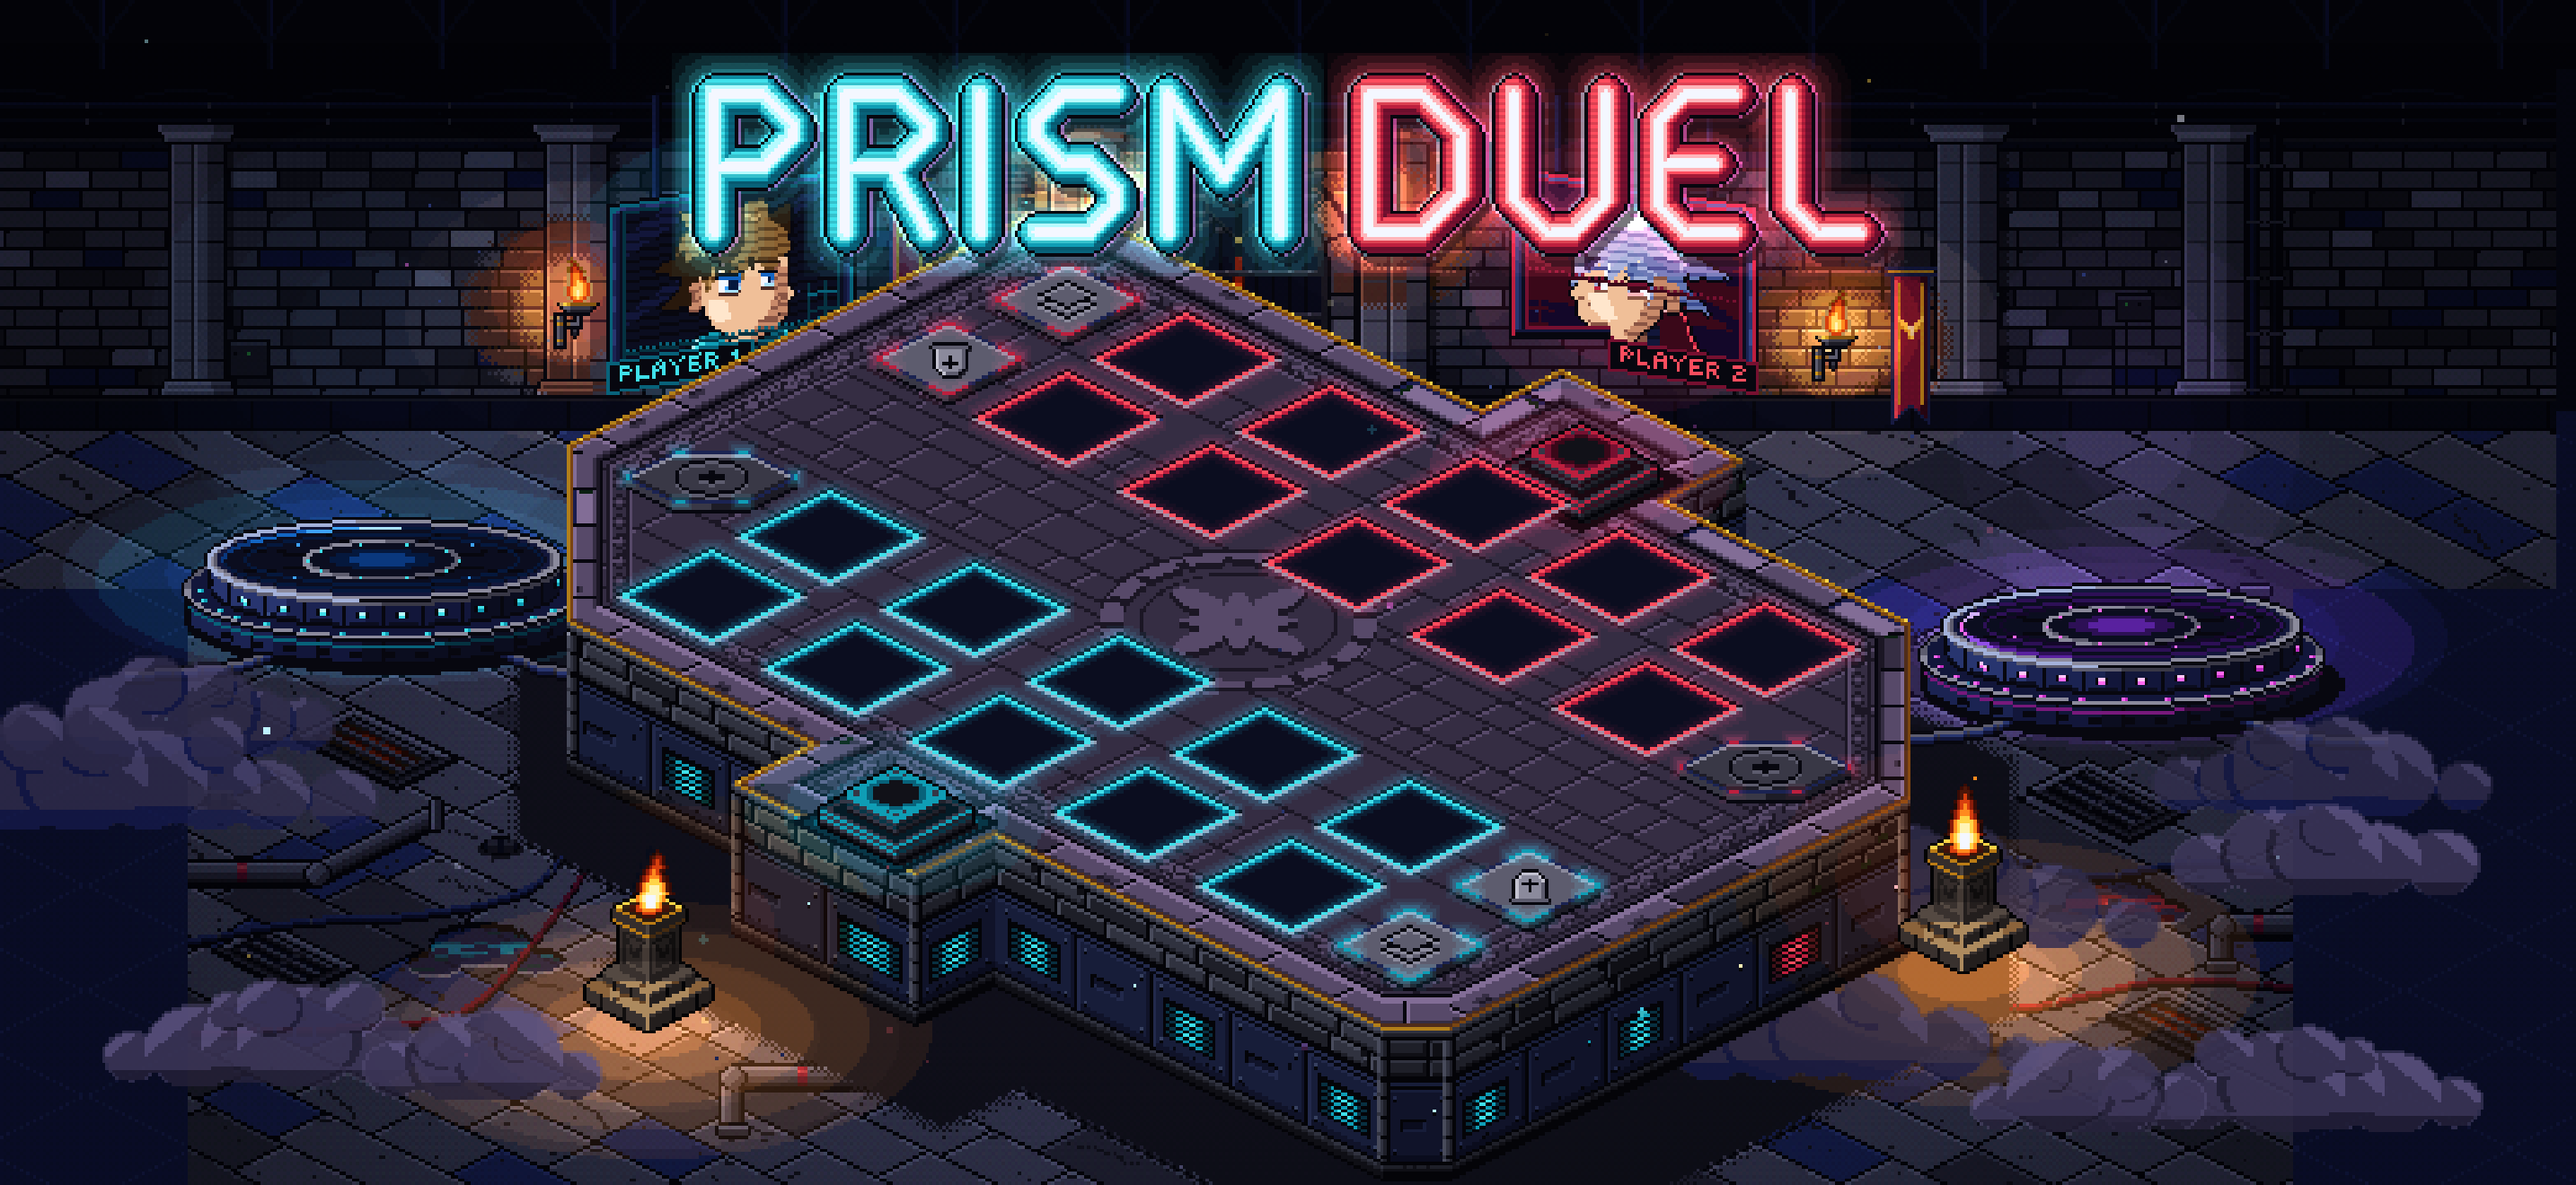
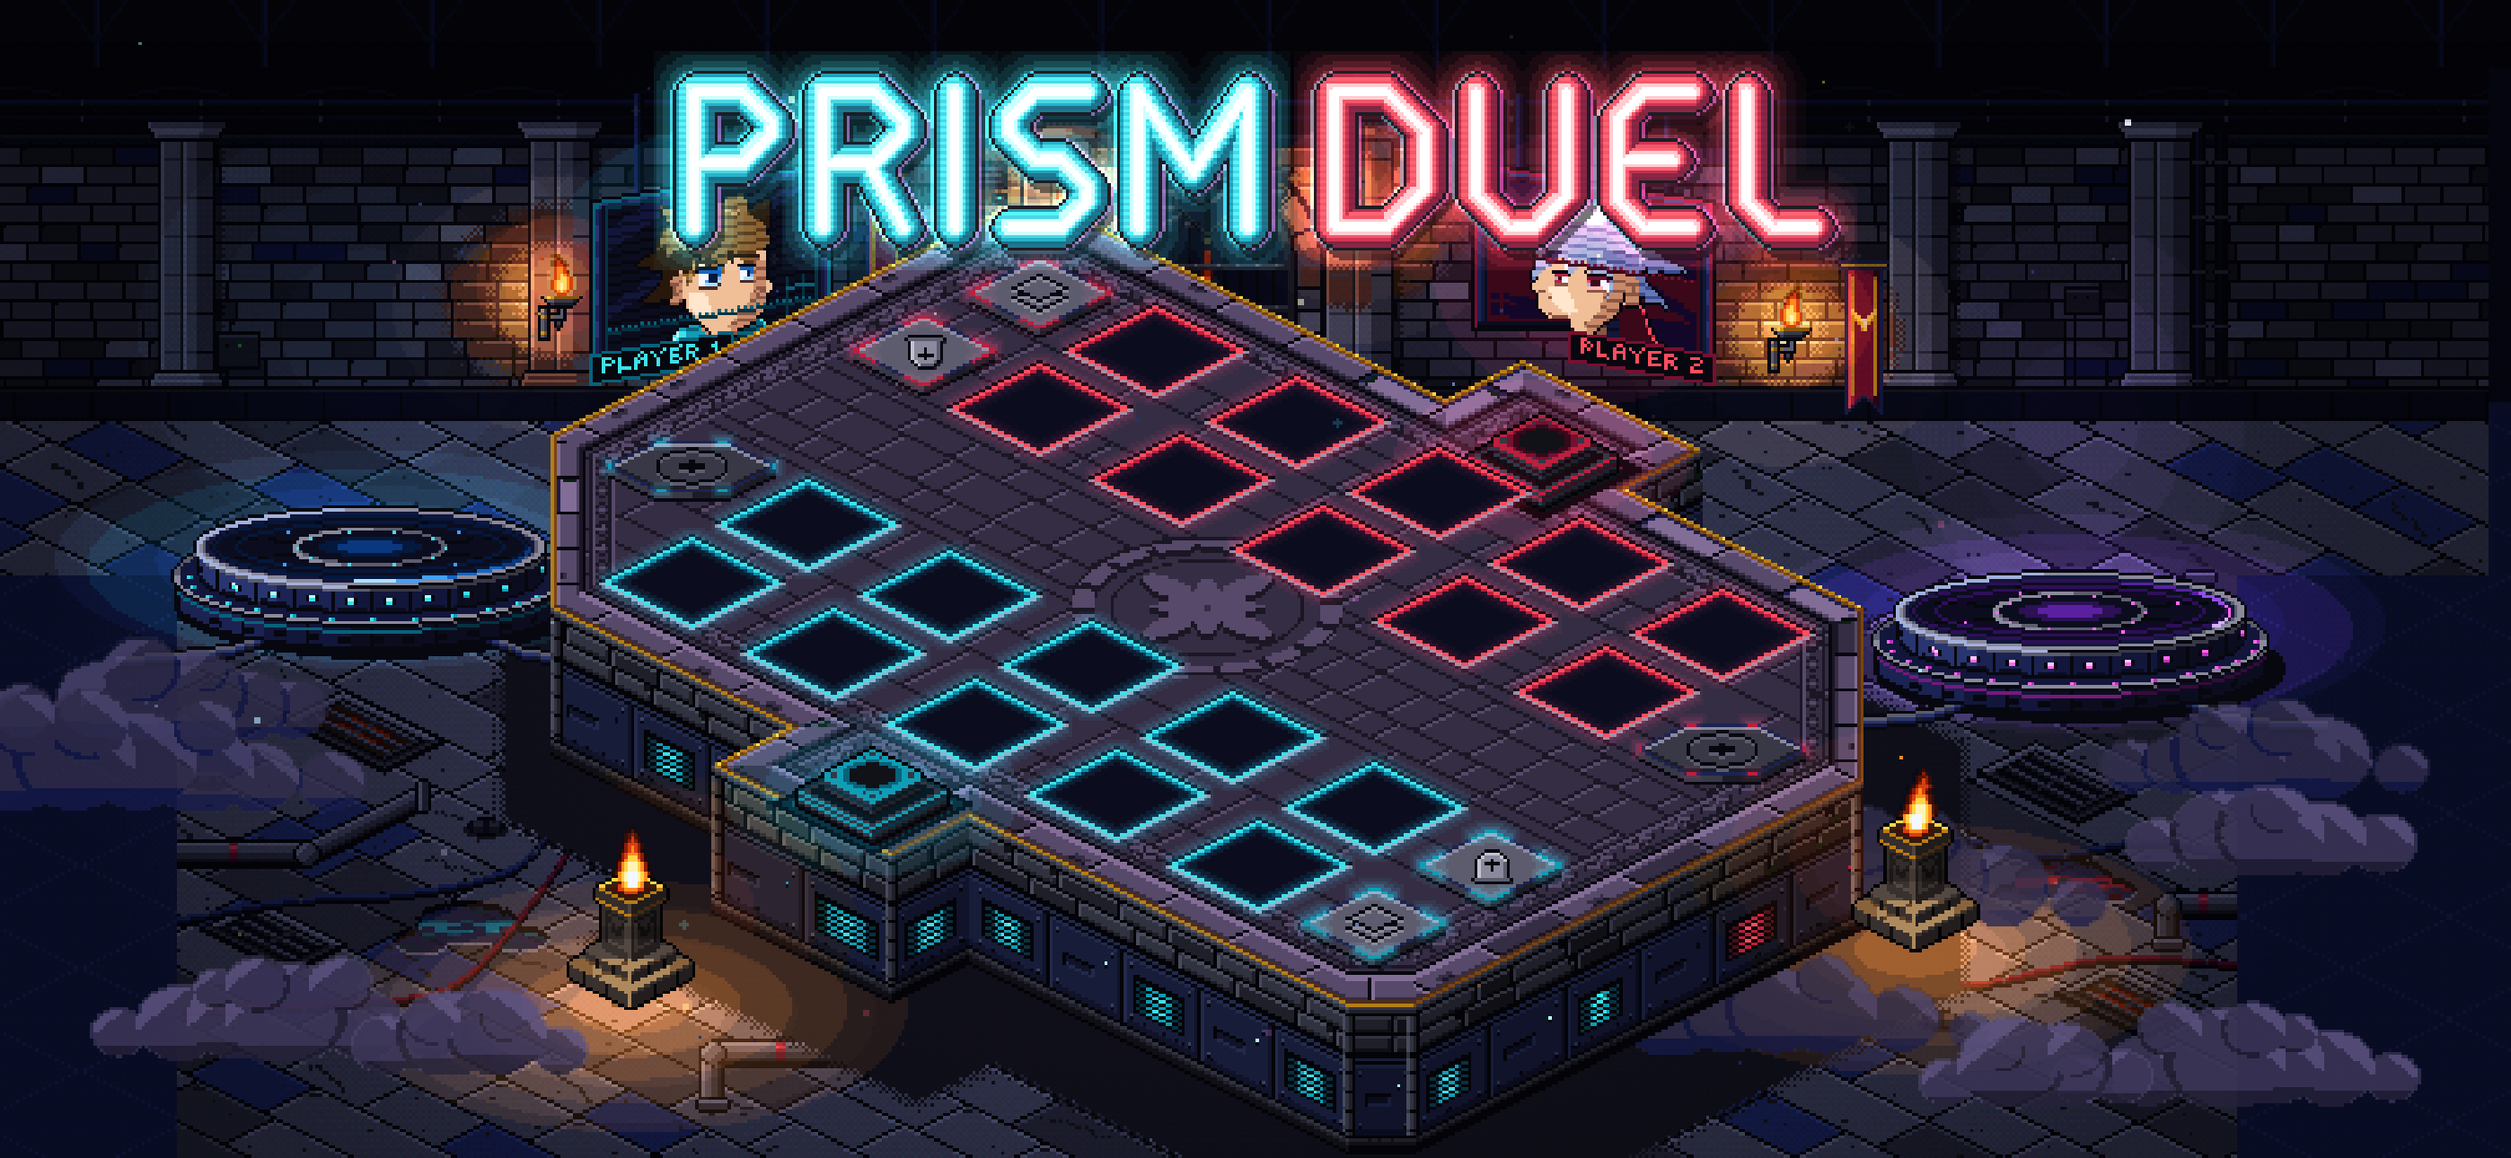
Mobile: full App Store metadata via EAS Metadata, privacy/support pages
- mobile/store.config.json (+ store.config.js): title, subtitle, promo text,
  description, keywords, categories, age rating, release, review notes,
  privacy/support URLs and the five screenshots; eas metadata:lint passes.
  The review contact comes from a git-ignored store.review.json (public repo).
- Screenshots re-rendered at 2796x1290 (App Store 6.7"/6.9" iPhone slot).
- privacy/ and support/ pages at the repo root for GitHub Pages (.nojekyll).

Claude-Session: https://claude.ai/code/session_01Qe4uUGdeQoSEXRKEwKHozW

diff --git a/support/index.html b/support/index.html
@@ -1,0 +1,51 @@
+<!doctype html>
+<html lang="en">
+<head>
+<meta charset="utf-8">
+<meta name="viewport" content="width=device-width, initial-scale=1">
+<title>Prism Duel — Support</title>
+<link rel="icon" href="../mobile/assets/icon.png">
+<style>
+  :root { color-scheme: dark; --bg: #0b0d1f; --panel: #12163a; --line: #28356f; --text: #e8ecff; --mute: #a3b1da; --cyan: #3fe0ea; --crim: #ff4d5e; }
+  * { box-sizing: border-box; }
+  body { margin: 0; background: var(--bg); color: var(--text); font: 16px/1.6 -apple-system, BlinkMacSystemFont, "Segoe UI", Roboto, sans-serif; }
+  main { max-width: 720px; margin: 0 auto; padding: 32px 16px 64px; }
+  header { display: flex; align-items: center; gap: 16px; margin-bottom: 24px; }
+  header img { width: 72px; height: 72px; border-radius: 16px; image-rendering: pixelated; }
+  h1 { margin: 0; font-size: 28px; } h1 span { color: var(--cyan); } h1 b { color: var(--crim); }
+  h2 { font-size: 18px; color: var(--cyan); margin-top: 28px; }
+  .mute { color: var(--mute); }
+  section { background: var(--panel); border: 1px solid var(--line); border-radius: 12px; padding: 8px 20px 16px; margin-bottom: 16px; }
+  a { color: var(--cyan); }
+  dt { font-weight: 600; margin-top: 12px; } dd { margin: 4px 0 0; color: var(--mute); }
+</style>
+</head>
+<body>
+<main>
+  <header>
+    <img src="../mobile/assets/icon.png" alt="Prism Duel icon">
+    <div><h1><span>PRISM</span> <b>DUEL</b></h1><div class="mute">Support</div></div>
+  </header>
+  <section>
+    <h2>Contact</h2>
+    <p>Found a bug or have a question? Email <a href="mailto:SUPPORT_EMAIL">SUPPORT_EMAIL</a> — please include your iPhone model and iOS version.</p>
+  </section>
+  <section>
+    <h2>Quick start</h2>
+    <p>Tap the title screen, pick <b>VERSUS CPU</b> (or <b>2 PLAYERS</b> to pass the phone to a friend), choose a deck and duel. Bring your opponent's Life Points from 4000 to 0 to win.</p>
+    <h2>FAQ</h2>
+    <dl>
+      <dt>How do I build my own deck?</dt>
+      <dd>Main menu → DECK BUILDER. Tap a card to see it, use + / − or drag cards onto the deck and back out. Save to one of five slots.</dd>
+      <dt>Does the game need the internet?</dt>
+      <dd>No. Prism Duel runs fully offline and never connects to a server.</dd>
+      <dt>Where are my decks saved?</dt>
+      <dd>Only on your iPhone. Deleting the app deletes them.</dd>
+      <dt>Is there anything to buy?</dt>
+      <dd>No. There are no ads and no in-app purchases.</dd>
+    </dl>
+    <p class="mute">Privacy: <a href="../privacy/">Privacy Policy</a></p>
+  </section>
+</main>
+</body>
+</html>

diff --git a/privacy/index.html b/privacy/index.html
@@ -1,0 +1,50 @@
+<!doctype html>
+<html lang="en">
+<head>
+<meta charset="utf-8">
+<meta name="viewport" content="width=device-width, initial-scale=1">
+<title>Prism Duel — Privacy Policy</title>
+<link rel="icon" href="../mobile/assets/icon.png">
+<style>
+  :root { color-scheme: dark; --bg: #0b0d1f; --panel: #12163a; --line: #28356f; --text: #e8ecff; --mute: #a3b1da; --cyan: #3fe0ea; --crim: #ff4d5e; }
+  * { box-sizing: border-box; }
+  body { margin: 0; background: var(--bg); color: var(--text); font: 16px/1.6 -apple-system, BlinkMacSystemFont, "Segoe UI", Roboto, sans-serif; }
+  main { max-width: 720px; margin: 0 auto; padding: 32px 16px 64px; }
+  header { display: flex; align-items: center; gap: 16px; margin-bottom: 24px; }
+  header img { width: 72px; height: 72px; border-radius: 16px; image-rendering: pixelated; }
+  h1 { margin: 0; font-size: 28px; } h1 span { color: var(--cyan); } h1 b { color: var(--crim); }
+  h2 { font-size: 18px; color: var(--cyan); margin-top: 28px; }
+  p, li { color: var(--text); } .mute { color: var(--mute); }
+  section { background: var(--panel); border: 1px solid var(--line); border-radius: 12px; padding: 8px 20px 16px; }
+  a { color: var(--cyan); }
+</style>
+</head>
+<body>
+<main>
+  <header>
+    <img src="../mobile/assets/icon.png" alt="Prism Duel icon">
+    <div><h1><span>PRISM</span> <b>DUEL</b></h1><div class="mute">Privacy Policy · effective November 14, 2026</div></div>
+  </header>
+  <section>
+    <h2>Short version</h2>
+    <p>Prism Duel does not collect, store or share any personal information.</p>
+    <h2>What stays on your device</h2>
+    <p>Your decks, settings (sound, music, speed) and progress are saved only on your iPhone, inside the app. They never leave your device and are removed when you delete the app.</p>
+    <h2>What we do not do</h2>
+    <ul>
+      <li>No accounts or sign-in.</li>
+      <li>No advertising and no ad tracking.</li>
+      <li>No analytics, crash reporting or third-party SDKs that collect data.</li>
+      <li>No network connections: the game runs fully offline.</li>
+      <li>No in-app purchases.</li>
+    </ul>
+    <h2>Children</h2>
+    <p>Because the app collects no data from anyone, it collects no data from children.</p>
+    <h2>Changes</h2>
+    <p>If this policy ever changes, the new version will be posted on this page with a new effective date.</p>
+    <h2>Contact</h2>
+    <p>Questions? See the <a href="../support/">support page</a>.</p>
+  </section>
+</main>
+</body>
+</html>

diff --git a/mobile/store.config.js b/mobile/store.config.js
@@ -1,0 +1,20 @@
+// EAS Metadata (eas metadata:push) — the App Store listing in store.config.json, plus the App Review
+// contact from store.review.json. That file is git-ignored: the repository is public, so the email
+// and phone stay on your computer. Copy store.review.example.json to store.review.json and fill it in.
+const fs = require('fs');
+const path = require('path');
+
+const base = require('./store.config.json');
+const file = path.join(__dirname, 'store.review.json');
+if (!fs.existsSync(file)) {
+  throw new Error('Missing mobile/store.review.json — copy store.review.example.json and add your email and phone.');
+}
+const contact = JSON.parse(fs.readFileSync(file, 'utf8'));
+
+module.exports = {
+  ...base,
+  apple: {
+    ...base.apple,
+    review: { ...base.apple.review, ...contact },
+  },
+};

diff --git a/mobile/store/listing.md b/mobile/store/listing.md
@@ -1,7 +1,8 @@
 # Prism Duel — App Store listing (draft)
 
-Paste these into App Store Connect → the app → App Information / the version page.
-Screenshots: `store/screenshots/` (iPhone 6.9", 2868 × 1320, landscape; upload all five in order).
+The source of truth is `mobile/store.config.json` — push it with `npx eas-cli@latest metadata:push`
+(texts, categories, age rating, URLs, review notes and screenshots in one go). This file is a readable copy.
+Screenshots: `store/screenshots/` (iPhone 6.7"/6.9" slot, 2796 × 1290, landscape, five in order).
 
 ## App Information
 - **Name** (30 max): Prism Duel
@@ -28,10 +29,10 @@ Build a deck from 80 original cards — dragons, golems, knights, spells and tra
 • Hand-drawn pixel art with soft real-time lighting; fills the whole screen on modern iPhones
 • Plays fully offline. No ads, no accounts, no data collected
 
-**Keywords** (100 max, comma-separated, no spaces after commas)
-card,duel,deck,builder,tcg,ccg,monster,summon,pixel,strategy,offline,two player,hologram,tactics
+**Keywords** (100 max)
+deck,builder,tcg,ccg,monster,summon,dragon,spell,trap,offline,2 player,tactics,battle,arena,strategy
 
-**Support URL**: (needed — e.g. the GitHub repo page, or a simple page with a contact email)
+**Support URL**: https://kaanaydemir.github.io/prism-duel/support/
 **Marketing URL**: optional
 **Copyright**: 2026 Kaan Aydemir
 **Review notes**: No login needed. Tap the screen on the title, pick VERSUS CPU, choose a deck and play.
@@ -39,7 +40,7 @@ card,duel,deck,builder,tcg,ccg,monster,summon,pixel,strategy,offline,two player,
 ## App Privacy
 - Data collection: **Data Not Collected** (the game keeps decks and settings on the device only;
   it makes no network requests, has no analytics, ads or accounts).
-- **Privacy Policy URL**: required even for "Data Not Collected" — host the text below anywhere public.
+- **Privacy Policy URL**: https://kaanaydemir.github.io/prism-duel/privacy/ (pages in `privacy/` and `support/` at the repo root)
 
 ### Privacy policy text
 > Prism Duel does not collect, store or share any personal information. The game runs entirely on
